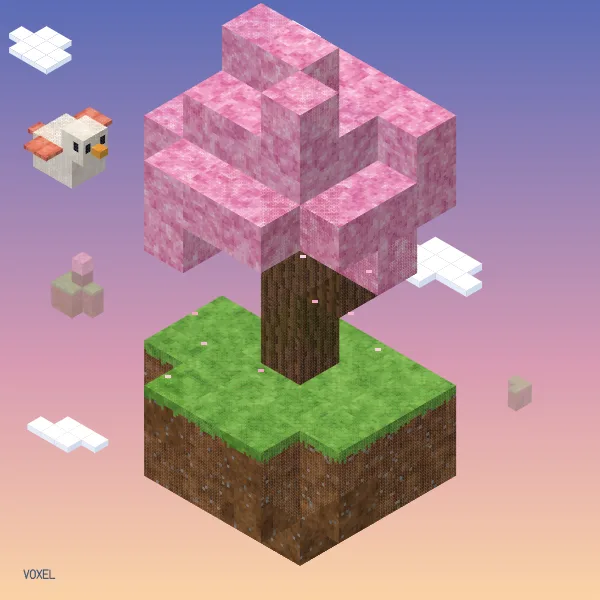
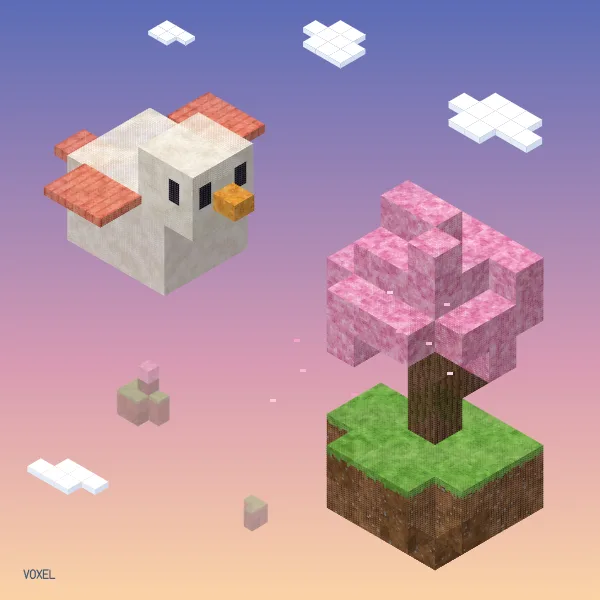
Make the bird the voxel card's subject
The render critic judged the voxel card a tree with a bird in its corner:
the near island is now smaller and to one side, and the bird, built at the
island's texel size, flies large in open sky, mirrored with the seed's
side. The wall's voxel work changes with it, so its poster and the voxel
card's poster are redrawn; the shot-4 posters keep their images and only
their records change.

Foreman: 1422

diff --git a/site/demos/voxel.js b/site/demos/voxel.js
@@ -30,18 +30,28 @@ const BLOOMS = [
   ['#3f7a2a', '#4a8a31', '#56993a', '#63a845', '#72b551', '#84c262'],
 ];
 
-// Untextured cloud slabs, one character per cell; S is the block size.
+// The composition with the bird on the left, mirrored when it flies on the
+// right: the bird in open sky high on its side, the near island lower on the
+// other, far islands under the bird. Untextured cloud slabs, one character per
+// cell; S is the block size.
 const CLOUDS = [
-  { S: 24, x: 70, y: 140, rows: ['0110', '1111', '0111'] },
-  { S: 18, x: 520, y: 40, rows: ['111', '110'] },
-  { S: 30, x: 700, y: 390, rows: ['01110', '11111', '01100'] },
-  { S: 26, x: 60, y: 690, rows: ['0111', '1110'] },
+  { S: 24, x: 560, y: 30, rows: ['0110', '1111', '0111'] },
+  { S: 18, x: 310, y: 40, rows: ['111', '110'] },
+  { S: 30, x: 800, y: 150, rows: ['01110', '11111', '01100'] },
+  { S: 26, x: 60, y: 760, rows: ['0111', '1110'] },
 ];
 // Far islands: block size, origin, grass footprint, haze toward the sky.
 const FAR = [
-  { S: 20, x: 120, y: 470, foot: [[0, 0], [1, 0], [2, 0], [0, 1], [1, 1]], tree: [1, 0], haze: 0.55 },
-  { S: 15, x: 860, y: 640, foot: [[0, 0], [1, 0], [1, 1]], haze: 0.65 },
+  { S: 20, x: 230, y: 650, foot: [[0, 0], [1, 0], [2, 0], [0, 1], [1, 1]], tree: [1, 0], haze: 0.55 },
+  { S: 15, x: 420, y: 840, foot: [[0, 0], [1, 0], [1, 1]], haze: 0.65 },
 ];
+// The near island's block size, the canvas x its blocks centre on and the
+// height of its origin.
+const S = 52;
+const ISLE = [725, 664];
+// The bird's scale against the island's blocks, and where its origin falls.
+const K = 3.6;
+const PERCH = [250, 320];
 
 const BIRD = {
   cream: ['#e7ddcb', '#efe6d6', '#f6efe3', '#fbf7ef'],
@@ -62,10 +72,13 @@ function textures(R, bloom, patch) {
   };
 }
 
-// Eye texels painted on the head box's side faces.
-function eyes(name, u, v, nu) {
-  if ((name === 'right' && v >= 2 && v <= 4 && (u === 1 || u === 2 || u === nu - 3 || u === nu - 2)) ||
-    (name === 'left' && v >= 2 && v <= 4 && u >= nu - 4 && u <= nu - 3)) return BIRD.eye;
+// Eye texels painted on the head box's side faces, placed as fractions of the
+// face so they keep their proportions at any head size.
+function eyes(name, u, v, nu, nv) {
+  if (v < Math.round(nv * 0.22) || v >= Math.round(nv * 0.55)) return null;
+  const w = Math.max(2, Math.round(nu * 0.2)); const at = (lo) => u >= lo && u < lo + w;
+  if (name === 'right' && (at(Math.round(nu * 0.1)) || at(nu - Math.round(nu * 0.1) - w))) return BIRD.eye;
+  if (name === 'left' && at(Math.round(nu * 0.55))) return BIRD.eye;
   return null;
 }
 
@@ -112,35 +125,39 @@ function draw(g, s) {
   sky.addColorStop(1, hour.stops[2]);
   g.fillStyle = sky;
   g.fillRect(0, 0, W, W);
-  // The bird flies right of the tree or left of it; on the left, the first cloud rises out of its way.
+  // The bird flies left of the tree or right of it; on the right, the whole composition mirrors.
   const right = R('bird', 'side') < 0.5;
-  CLOUDS.forEach((cloud, k) => slab(g, { ...cloud, x: cloud.x + (R('cloud', 'x', k) - 0.5) * 120, y: cloud.y - (k === 0 && !right ? 100 : 0) }));
+  const mx = (x) => (right ? W - x : x);
+  CLOUDS.forEach((cloud, k) => slab(g, { ...cloud, x: mx(cloud.x + (R('cloud', 'x', k) - 0.5) * 120) }));
 
   FAR.forEach((f, k) => {
     const { boxes, cell, block } = world();
     for (const [x, y] of f.foot) { block(x, y, 0, 'grass'); block(x, y, -1, 'dirt'); }
     block(f.foot[0][0], f.foot[0][1], -2, 'dirt');
     if (f.tree) { block(f.tree[0], f.tree[1], 1, 'log'); block(f.tree[0], f.tree[1], 2, 'bloom'); }
-    drawBoxes(g, boxes, cell, iso(f.S, f.x, f.y), tex, { haze: f.haze, hazeColour: hour.haze, base: 5000 + k * 100 });
+    drawBoxes(g, boxes, cell, iso(f.S, mx(f.x), f.y), tex, { haze: f.haze, hazeColour: hour.haze, base: 5000 + k * 100 });
   });
 
-  // The near world.
+  // The near world, centred on ISLE[0]: the island spans x - y from -4 to 6.
   const { boxes, cell } = island(R);
+  drawBoxes(g, boxes, cell, iso(S, mx(ISLE[0]) - S * 0.866, ISLE[1]), tex);
 
-  // The bird, flying, built from boxes around (bx, by, bz), on one side of the tree or the other.
-  const [bx, by, bz] = right ? [4.6, -2.2, 5.3] : [-2.4, 2.6, 3.9];
-  const part = (x, y, z, w, d, h, mat, decal) => boxes.push({ x: bx + x, y: by + y, z: bz + z, w, d, h, mat, decal, free: true });
+  // The bird, flying, built from boxes scaled K times at the island's texel size: the
+  // subject, in open sky of its own, drawn last.
+  const [sx, sy] = [mx(PERCH[0]), PERCH[1]];
+  const bird = [];
+  const part = (x, y, z, w, d, h, mat, decal) => bird.push({ x: K * x, y: K * y, z: K * z, w: K * w, d: K * d, h: K * h, mat, decal, free: true });
   part(-0.4, 0.28, 0.42, 0.42, 0.3, 0.08, 'coral');
   part(0, 0, 0, 1.0, 0.85, 0.75, 'cream');
   part(0.18, -0.42, 0.7, 0.58, 0.42, 0.07, 'coral');
   part(0.18, 0.85, 0.7, 0.58, 0.42, 0.07, 'coral');
   part(0.62, 0.12, 0.52, 0.56, 0.62, 0.56, 'cream', eyes);
   part(1.18, 0.33, 0.7, 0.22, 0.2, 0.14, 'beak');
-  drawBoxes(g, boxes, cell, iso(75, 500 - 75 * 0.866, 530), tex);
+  drawBoxes(g, bird, new Set(), iso(S, sx, sy), tex, { base: 9000 });
 
-  // A few petals on the wind.
+  // A few petals on the wind, blown from the crown toward the bird.
   for (let i = 0; i < 9; i++) {
-    const px = 260 + R('petal', 'x', i) * 520; const py = 420 + R('petal', 'y', i) * 360;
+    const px = mx(440 + R('petal', 'x', i) * 440); const py = 480 + R('petal', 'y', i) * 320;
     g.fillStyle = bloom[3 + (i % 3)];
     g.fillRect(Math.round(px / 5) * 5, Math.round(py / 5) * 5, 10, 5);
   }
